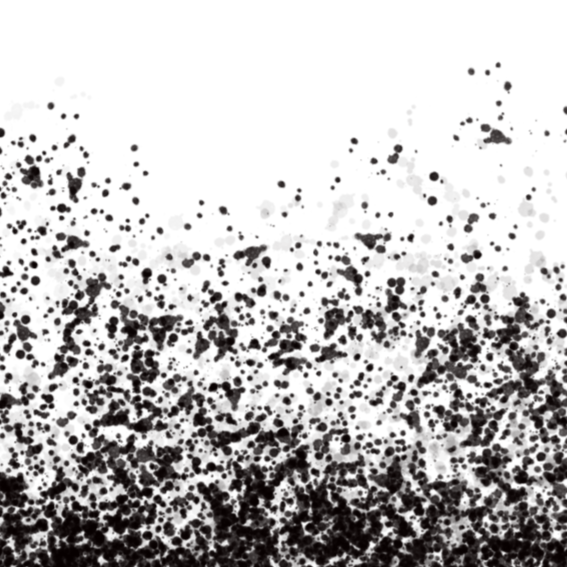
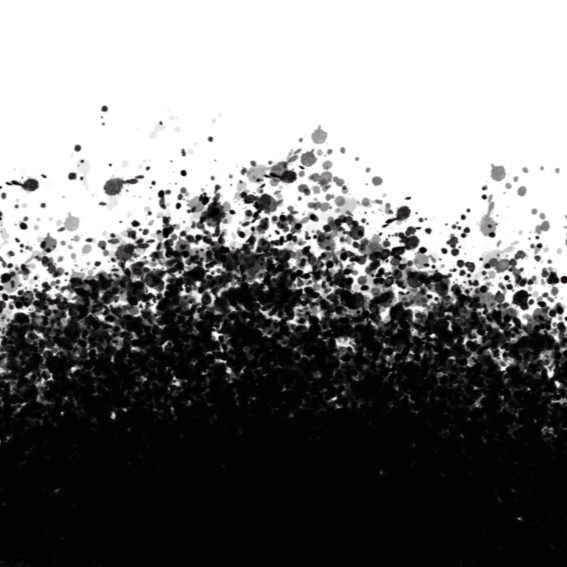
Added blog post page

diff --git a/src/routes/blog/[slug]/+page.svelte b/src/routes/blog/[slug]/+page.svelte
@@ -1,3 +1,133 @@
-<script lang="ts"></script>
+<script lang="ts">
 
-<p>Blog post</p>
+    let { data } = $props();
+
+    let blogPost = $derived(data?.blogPost?.data[0] ?? undefined);
+    let error = $derived(data.error);
+
+    let uploadDatePretty = $derived(() => {
+        if (!blogPost) return "[ Unknown date ]";
+        const date = new Date(blogPost?.publishedAt);
+        const year = date.getFullYear();
+        const month = (date.getMonth() < 10) ? "0" + date.getMonth() : date.getMonth();
+        const day = (date.getDay() < 10) ? "0" + date.getDay() : date.getDay();
+        return year + "/" + month + "/" + day;
+    });
+
+    console.log(blogPost);
+
+</script>
+
+{#if error || !blogPost}
+    <p>Error: {error}</p>
+{:else}
+
+    <div class="hero">
+
+        <img
+            class="hero-image"
+            src="http://localhost:1337{blogPost.featured_image.url}"
+            alt="{ blogPost.featured_image.alternativeText ?? blogPost.title ?? 'Unknown' }"
+        />
+
+        <section class="hero-section">
+            <div class="blog-content-wrapper">
+                <h1 class="hero-title">{ blogPost.title }</h1>
+                <p>{ uploadDatePretty() }</p>
+            </div>
+        </section>
+
+    </div>
+
+    <div class="blog-content">
+
+        <section class="blog-content-wrapper">
+
+            {#each blogPost.content as content}
+                <div class="blog-content-block">
+                    {#if content.type === "paragraph"}
+                        {#each content.children as block}
+                            <p>{ block.text }</p>
+                        {/each}
+                    {/if}
+                </div>
+            {/each}
+
+        </section>
+
+    </div>
+
+{/if}
+
+<style>
+
+    .blog-content {
+        background-color: #070000;
+        padding-inline: 1rem;
+    }
+
+    .blog-content-wrapper {
+        max-width: 48rem;
+        margin-inline: auto;
+        width: 100%;
+    }
+
+    .blog-content .blog-content-wrapper {
+        display: flex;
+        flex-direction: column;
+    }
+
+    .hero {
+        position: relative;
+        height: 100vh;
+        width: 100vw;
+        display: flex;
+        align-items: center;
+        justify-content: center;
+    }
+
+    .hero-section::after {
+        position: absolute;
+        content: "";
+        background: url("/images/splatter-2.png") repeat-x;
+        background-size: contain;
+        height: 18rem;
+        left: 0;
+        top: -18rem;
+        z-index: 10;
+        width: 100%;
+    }
+
+    .hero-image {
+        position: absolute;
+        inset: 0;
+        width: 100%;
+        height: 100%;
+        display: block;
+        object-position: center center;
+        object-fit: cover;
+    }
+
+    .hero-section {
+        z-index: 1;
+        position: absolute;
+        bottom: 0;
+        padding: 2rem 1rem;
+        width: 100vw;
+        background-size: contain;
+        background-color: #070000;
+    }
+
+    .hero-title {
+        font-size: 2rem;
+        font-weight: 900;
+        margin: 0;
+    }
+
+    @media only screen and (min-width: 768px) {
+        .hero-title {
+            font-size: 4rem;
+        }
+    }
+
+</style>

diff --git a/src/lib/Strapi.ts b/src/lib/Strapi.ts
@@ -16,6 +16,7 @@ class Strapi {
     }
 
     async getBlogPosts(limit: number = 12, latest: boolean = false) {
+        console.log(`[Log]:     Fetching ${limit} blog posts`);
         const qs = `?populate=*&pagination[pageSize]=${limit}&sort=publishedAt:${latest ? 'desc' : 'asc'}`;
         const url = `${this.protocol}://${this.host}:${this.port}/api/blog-posts${qs}`;
         const response = await fetch(url, {
@@ -26,6 +27,23 @@ class Strapi {
         if (!response.ok) {
             throw response;
         }
+        console.log(`[Log]:     Fetched ${limit} blog posts successfully`);
+        return await response.json();
+    }
+
+    async getBlogPost(slug: string) {
+        console.log(`[Log]:     Fetching blog post with slug ${slug}`);
+        const qs = `?populate=*&filters[slug][$eq]=${slug}`;
+        const url = `${this.protocol}://${this.host}:${this.port}/api/blog-posts${qs}`;
+        const response = await fetch(url, {
+            headers: {
+                Authorization: `Bearer ${this.readOnlyApiKey}`
+            }
+        });
+        if (!response.ok) {
+            throw response;
+        }
+        console.log(`[Log]:     Fetched blog post with slug ${slug} successfully`);
         return await response.json();
     }
 

diff --git a/src/routes/blog/[slug]/+page.server.ts b/src/routes/blog/[slug]/+page.server.ts
@@ -1,0 +1,24 @@
+import type { PageServerLoad } from './$types';
+import strapi from '$lib/Strapi';
+import { error } from "@sveltejs/kit";
+
+
+export const load: PageServerLoad = async ({ params }) => {
+    const slug = params.slug ?? '';
+    if (!slug || slug.length < 1) {
+        return error(404, "Blog post not found");
+    }
+    try {
+        const blogPost = await strapi.getBlogPost(slug);
+        return {
+            blogPost,
+            error: null
+        };
+    } catch (error) {
+        console.error('[Error]:   Failed to fetch blog posts', error);
+        return {
+            blogPost: null,
+            error: "Failed to fetch blog posts"
+        }
+    }
+}

diff --git a/src/routes/+page.server.ts b/src/routes/+page.server.ts
@@ -1,7 +1,7 @@
 import type { PageServerLoad } from './$types';
 import strapi from '$lib/Strapi';
 
-export const load: PageServerLoad = async ({ params }) => {
+export const load: PageServerLoad = async () => {
     try {
         const recentBlogPosts = await strapi.getBlogPosts(3, true);
         return {

diff --git a/src/routes/+layout.svelte b/src/routes/+layout.svelte
@@ -58,8 +58,9 @@
 	.header {
 		position: fixed;
 		inset: 0;
-		z-index: 1;
+		z-index: 3;
 		padding: 1rem;
+		height: fit-content;
 	}
 
 	.header::before {
